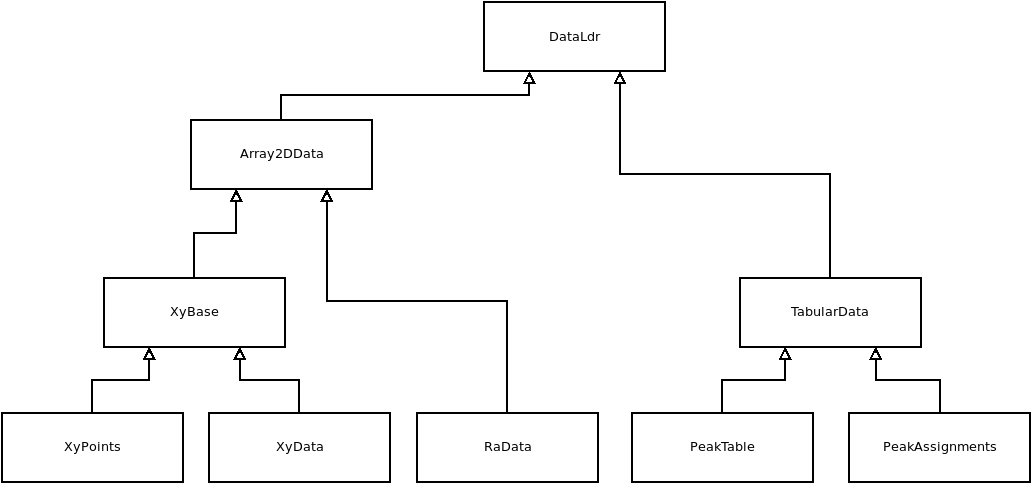
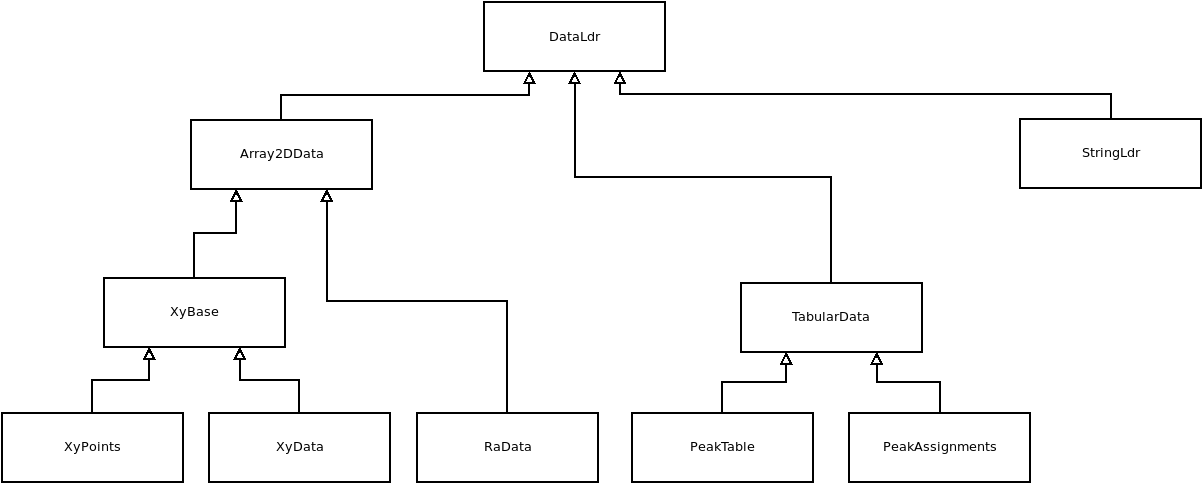
combine class hierarchies

diff --git a/include/jdx/StringLdr.hpp b/include/jdx/StringLdr.hpp
@@ -1,6 +1,8 @@
 #ifndef LIBJDX_STRINGLDR_HPP
 #define LIBJDX_STRINGLDR_HPP
 
+#include "jdx/Ldr.hpp"
+
 #include <string>
 
 namespace sciformats::jdx
@@ -8,7 +10,7 @@ namespace sciformats::jdx
 /**
  * @brief A JCAMP-DX labeled data record (LDR).
  */
-class StringLdr
+class StringLdr : public Ldr
 {
 public:
     /**
@@ -16,12 +18,7 @@ public:
      * @param label The label of the LDR, e.g. "TITLE" for "##TITLE= abc".
      * @param value The value of the LDR, e.g. "abc" for "##TITLE= abc".
      */
-    StringLdr(const std::string& label, const std::string& value);
-    /**
-     * @brief The label of the LDR, e.g. "TITLE" for "##TITLE= abc".
-     * @return The label of the LDR.
-     */
-    [[nodiscard]] const std::string& getLabel() const;
+    StringLdr(std::string label, std::string value);
     /**
      * @brief The value (without initial blank character if any) of the
      * LDR, e.g. "abc" for "##TITLE= abc".
@@ -29,22 +26,9 @@ public:
      * return value contains all lines, separated by \"\\n\".
      */
     [[nodiscard]] const std::string& getValue() const;
-    /**
-     * @brief Whether LDR is user defined, i.e. the label starts
-     * with "$", e.g. "##$USER_DEFINED_LABEL= abc".
-     * @return "true" if label is user defined, otherwise "false".
-     */
-    [[nodiscard]] bool isUserDefined() const;
-    /**
-     * @brief Whether LDR is technique specific, i.e. the label starts
-     * with ".", e.g. "##.OBSERVE_FREQUENCY= 50.0".
-     * @return "true" if label is user defined, otherwise "false".
-     */
-    [[nodiscard]] bool isTechniqueSpecific() const;
 
 private:
-    std::string m_label;
-    std::string m_value;
+    const std::string m_value;
 };
 } // namespace sciformats::jdx
 

diff --git a/include/jdx/Ldr.hpp b/include/jdx/Ldr.hpp
@@ -1,0 +1,42 @@
+#ifndef LIBJDX_LDR_HPP
+#define LIBJDX_LDR_HPP
+
+#include <string>
+
+namespace sciformats::jdx
+{
+/**
+ * @brief A JCAMP-DX labeled data record (LDR).
+ */
+class Ldr
+{
+public:
+    /**
+     * @brief Constructs a Ldr from label and string value.
+     * @param label The label of the LDR, e.g. "TITLE" for "##TITLE= abc".
+     */
+    explicit Ldr(std::string label);
+    /**
+     * @brief The label of the LDR, e.g. "TITLE" for "##TITLE= abc".
+     * @return The label of the LDR.
+     */
+    [[nodiscard]] const std::string& getLabel() const;
+    /**
+     * @brief Whether LDR is user defined, i.e. the label starts
+     * with "$", e.g. "##$USER_DEFINED_LABEL= abc".
+     * @return "true" if label is user defined, otherwise "false".
+     */
+    [[nodiscard]] bool isUserDefined() const;
+    /**
+     * @brief Whether LDR is technique specific, i.e. the label starts
+     * with ".", e.g. "##.OBSERVE_FREQUENCY= 50.0".
+     * @return "true" if label is user defined, otherwise "false".
+     */
+    [[nodiscard]] bool isTechniqueSpecific() const;
+
+private:
+    const std::string m_label;
+};
+} // namespace sciformats::jdx
+
+#endif // LIBJDX_LDR_HPP

diff --git a/src/StringLdr.cpp b/src/StringLdr.cpp
@@ -1,28 +1,12 @@
 #include "jdx/StringLdr.hpp"
 
-sciformats::jdx::StringLdr::StringLdr(
-    const std::string& label, const std::string& value)
+sciformats::jdx::StringLdr::StringLdr(std::string label, std::string value)
+    : Ldr{std::move(label)}
+    , m_value{std::move(value)}
 {
-    m_label = label;
-    m_value = value;
-}
-
-const std::string& sciformats::jdx::StringLdr::getLabel() const
-{
-    return m_label;
 }
 
 const std::string& sciformats::jdx::StringLdr::getValue() const
 {
     return m_value;
-}
-
-bool sciformats::jdx::StringLdr::isUserDefined() const
-{
-    return !m_label.empty() && m_label.at(0) == '$';
-}
-
-bool sciformats::jdx::StringLdr::isTechniqueSpecific() const
-{
-    return !m_label.empty() && m_label.at(0) == '.';
 }

diff --git a/include/jdx/DataLdr.hpp b/include/jdx/DataLdr.hpp
@@ -1,6 +1,8 @@
 #ifndef LIBJDX_DATALDR_HPP
 #define LIBJDX_DATALDR_HPP
 
+#include "jdx/Ldr.hpp"
+
 #include <functional>
 #include <istream>
 #include <optional>
@@ -12,10 +14,9 @@ namespace sciformats::jdx
 /**
  * @brief Base class for JCAMP-DX PEAK TABLE and PEAK ASSIGNMENTS records.
  */
-class DataLdr
+class DataLdr : public Ldr
 {
 public:
-    [[nodiscard]] const std::string& getLabel() const;
     [[nodiscard]] const std::string& getVariableList() const;
 
 protected:
@@ -47,8 +48,7 @@ protected:
     R callAndResetStreamPos(const std::function<R()>& func);
 
 private:
-    std::string m_label;
-    std::string m_variableList;
+    const std::string m_variableList;
     std::istream& m_istream;
     std::streampos m_streamDataPos;
 };

diff --git a/src/PeakTable.cpp b/src/PeakTable.cpp
@@ -7,8 +7,8 @@
 #include <tuple>
 
 sciformats::jdx::PeakTable::PeakTable(
-    std::string label, std::string variableList, std::istream& istream)
-    : TabularData(std::move(label), std::move(variableList), istream)
+    const std::string& label, std::string variableList, std::istream& istream)
+    : TabularData(label, std::move(variableList), istream)
 {
     validateInput(getLabel(), getVariableList(), s_peakTableLabel,
         std::vector<std::string>{std::begin(s_peakTableVariableLists),

diff --git a/src/PeakAssignments.cpp b/src/PeakAssignments.cpp
@@ -5,8 +5,8 @@
 #include <istream>
 
 sciformats::jdx::PeakAssignments::PeakAssignments(
-    std::string label, std::string variableList, std::istream& istream)
-    : TabularData(std::move(label), std::move(variableList), istream)
+    const std::string& label, std::string variableList, std::istream& istream)
+    : TabularData(label, std::move(variableList), istream)
 {
     validateInput(getLabel(), getVariableList(), s_peakAssignentsLabel,
         std::vector<std::string>{

diff --git a/src/DataLdr.cpp b/src/DataLdr.cpp
@@ -3,16 +3,11 @@
 
 sciformats::jdx::DataLdr::DataLdr(
     std::string label, std::string variableList, std::istream& istream)
-    : m_label{std::move(label)}
+    : Ldr{std::move(label)}
     , m_variableList{std::move(variableList)}
     , m_istream{istream}
     , m_streamDataPos{istream.tellg()}
 {
-}
-
-const std::string& sciformats::jdx::DataLdr::getLabel() const
-{
-    return m_label;
 }
 
 const std::string& sciformats::jdx::DataLdr::getVariableList() const

diff --git a/src/Ldr.cpp b/src/Ldr.cpp
@@ -1,0 +1,21 @@
+#include "jdx/Ldr.hpp"
+
+sciformats::jdx::Ldr::Ldr(std::string label)
+    : m_label{std::move(label)}
+{
+}
+
+const std::string& sciformats::jdx::Ldr::getLabel() const
+{
+    return m_label;
+}
+
+bool sciformats::jdx::Ldr::isUserDefined() const
+{
+    return !m_label.empty() && m_label.at(0) == '$';
+}
+
+bool sciformats::jdx::Ldr::isTechniqueSpecific() const
+{
+    return !m_label.empty() && m_label.at(0) == '.';
+}

diff --git a/include/jdx/PeakAssignments.hpp b/include/jdx/PeakAssignments.hpp
@@ -18,8 +18,8 @@ namespace sciformats::jdx
 class PeakAssignments : public TabularData
 {
 public:
-    PeakAssignments(
-        std::string label, std::string variableList, std::istream& iStream);
+    PeakAssignments(const std::string& label, std::string variableList,
+        std::istream& iStream);
     /**
      * @brief Provides the parsed peak assignments.
      * @return The list of peak assignments.

diff --git a/include/jdx/PeakTable.hpp b/include/jdx/PeakTable.hpp
@@ -18,8 +18,8 @@ namespace sciformats::jdx
 class PeakTable : public TabularData
 {
 public:
-    PeakTable(
-        std::string label, std::string variableList, std::istream& istream);
+    PeakTable(const std::string& label, std::string variableList,
+        std::istream& istream);
     /**
      * @brief Provides the parsed peak data.
      * @return The list of peaks.
